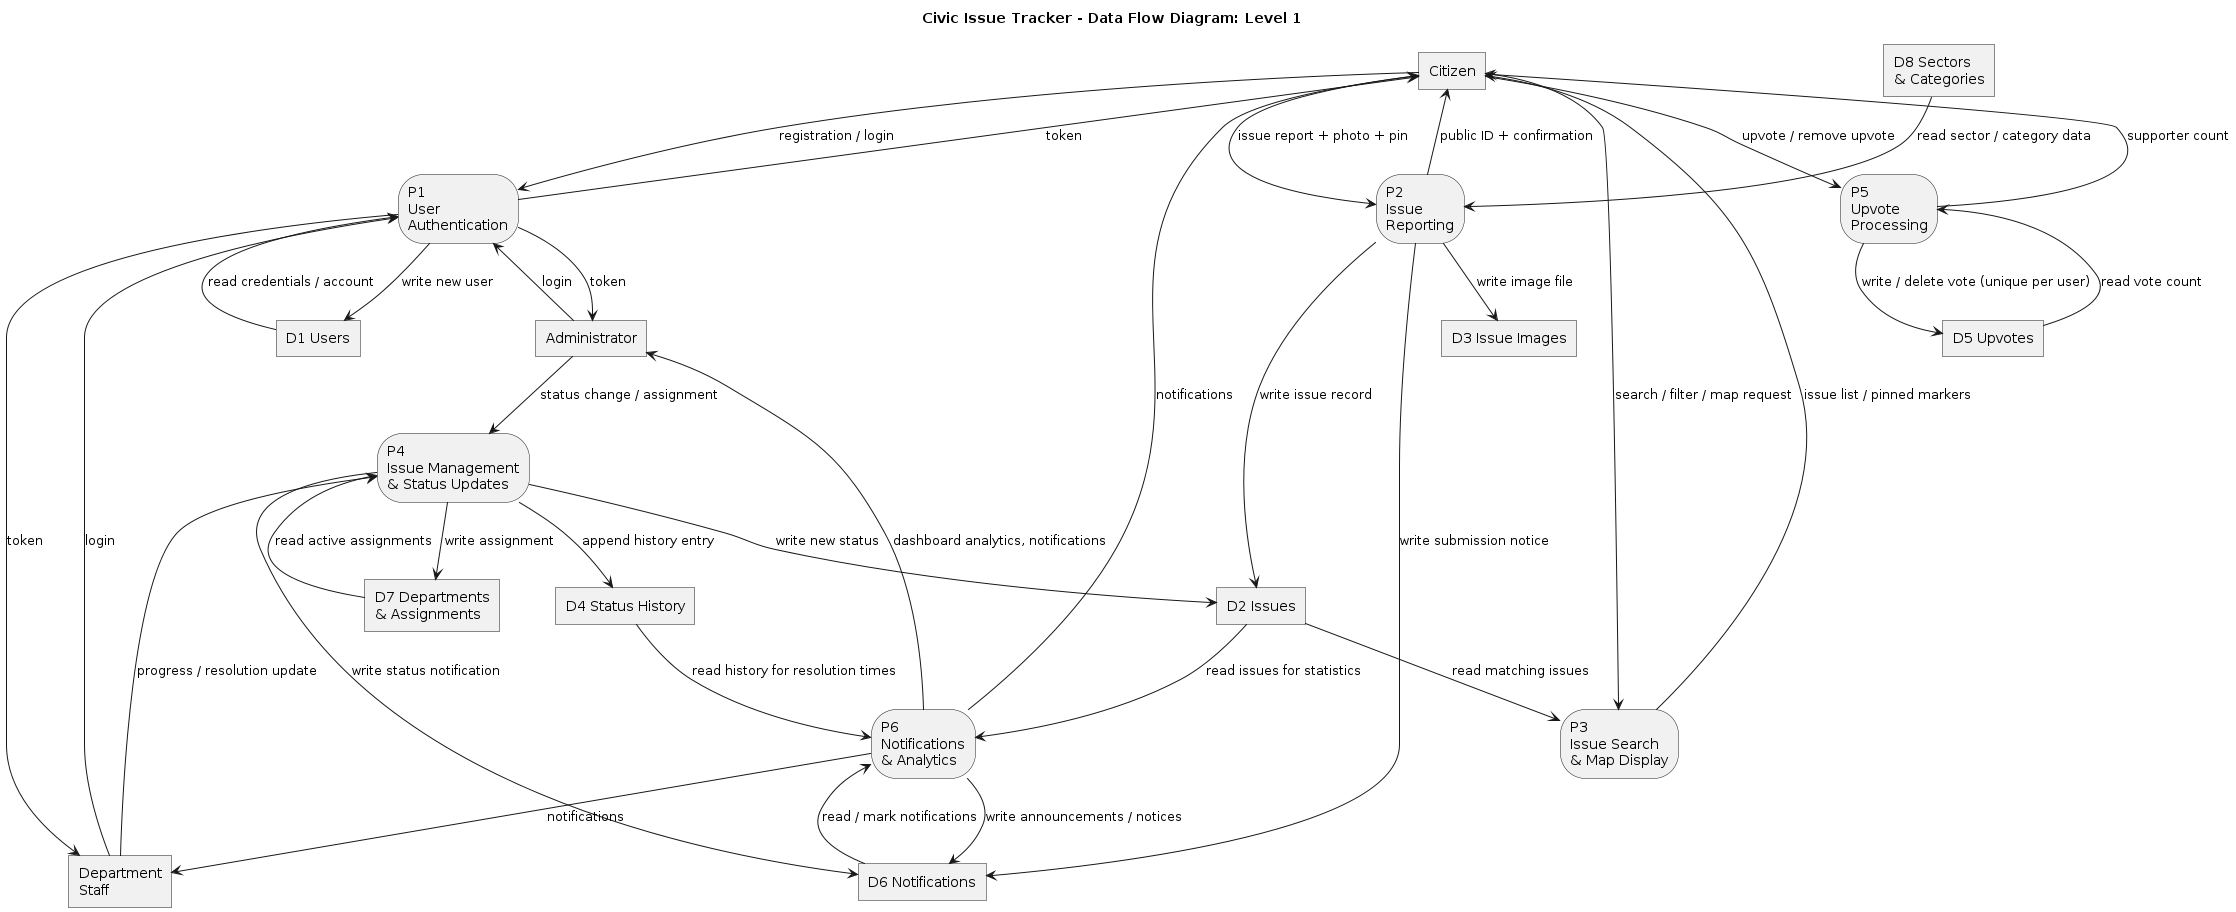
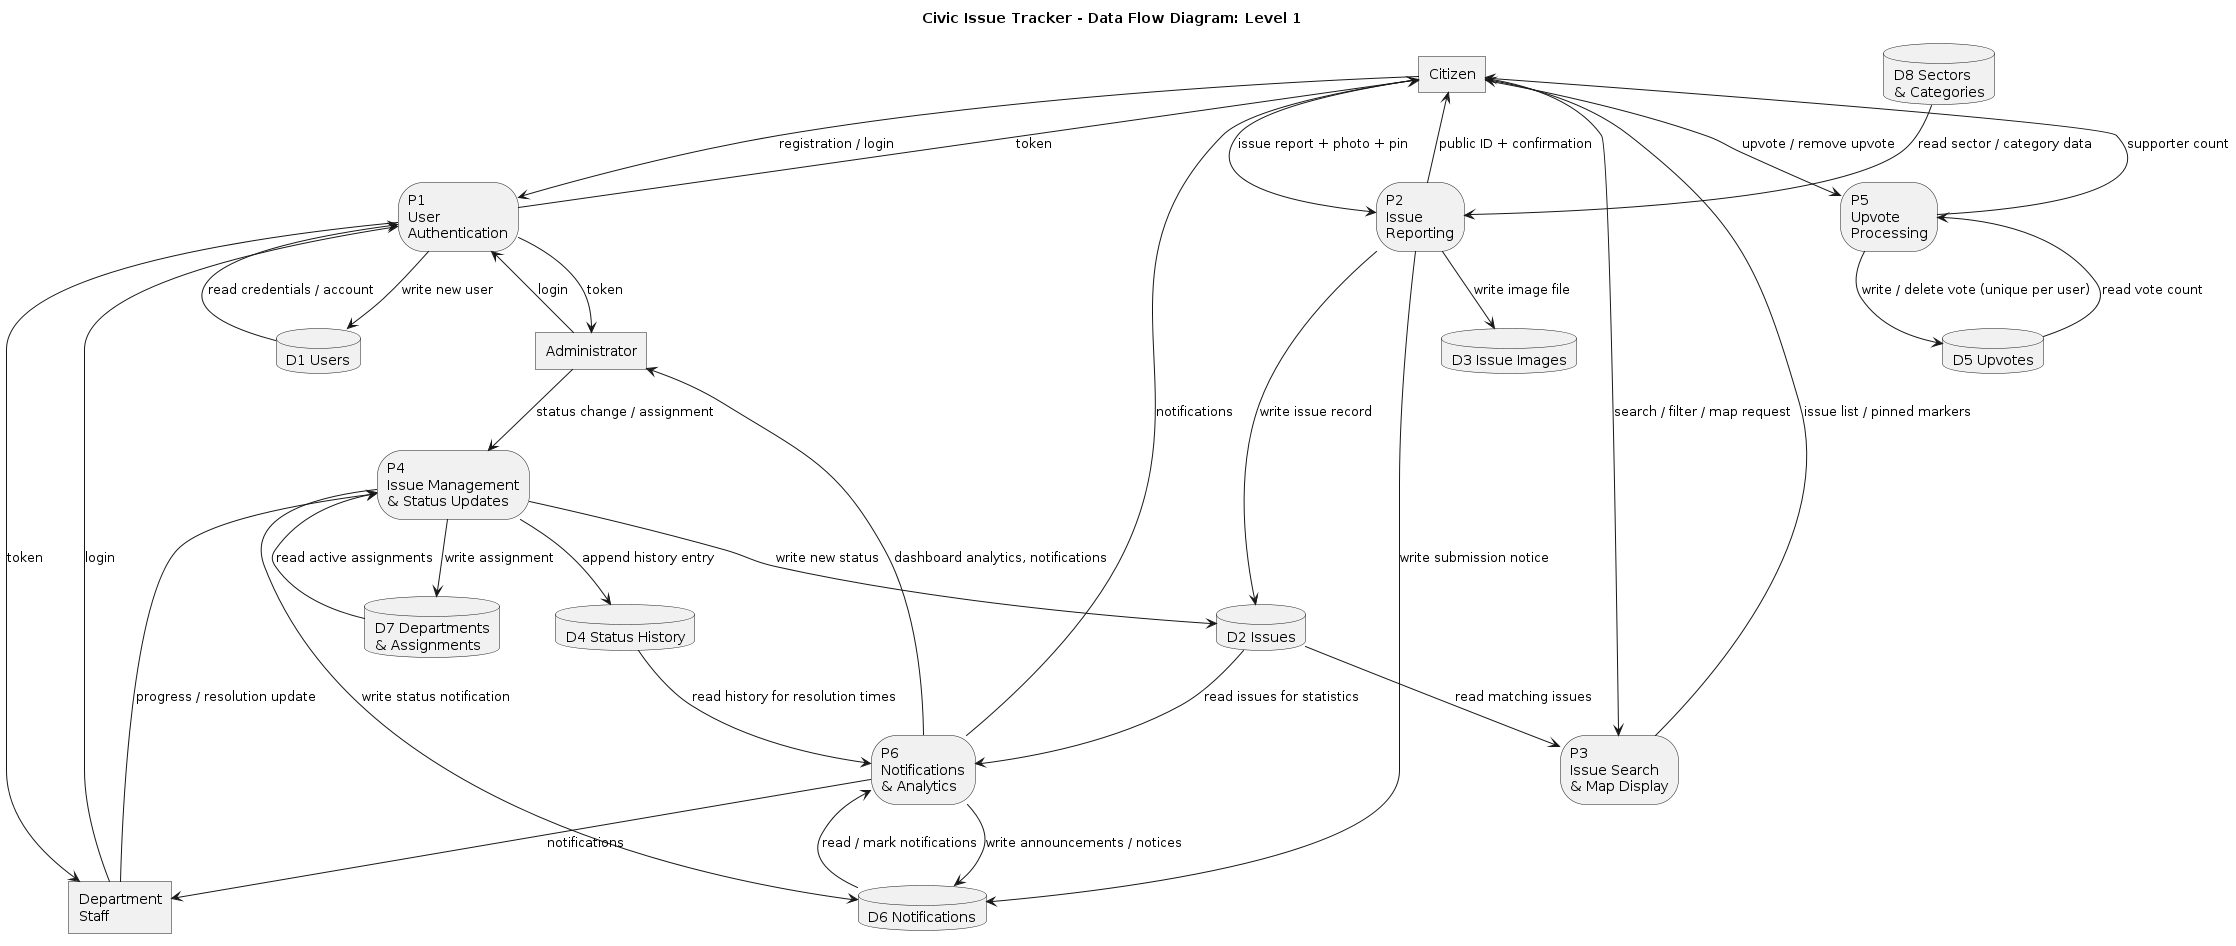
Diagram review round 2: activity resolution-review loop + history after storage, portrait use-case with actor generalization and comment/upvote-toggle coverage, cylinder DFD stores, SVG exports for all diagrams

diff --git a/docs/diagrams/README.md b/docs/diagrams/README.md
@@ -22,11 +22,19 @@ Four diagram categories for the Civic Issue Tracker. Sources are PlantUML
 ## 2. Use Case Diagram
 
 `use-case.puml` / `use-case.png` - actors Citizen, Administrator and Department Staff with the
-implemented use cases. `<<include>>` marks mandatory sub-flows (reporting and
+implemented use cases. Every diagram ships as PNG (preview) and SVG (vector, for
+zoom-quality printing in reports). DFD data stores use the cylinder
+symbol to stay clearly distinct from rectangular external entities
+(PlantUML has no native open-ended Gane-Sarson store shape).
+
+`<<include>>` marks mandatory sub-flows (reporting and
 upvoting include login; status changes and announcements always notify);
 `<<extend>>` arrows run from the optional use case to its base (image upload
 and map pin extend Report issue; notification extends assignment, which only
-notifies when a staff member is named). The class diagram's role subclasses
+notifies when a staff member is named). Add and remove upvote are one toggle
+use case backed by the POST/DELETE upvote endpoints, and commenting is open
+to every registered user (citizen, staff and admin), which is why both are
+modeled that way. The class diagram's role subclasses
 are conceptual: roles are implemented via the `User.role` column, noted on
 the diagram itself.
 
